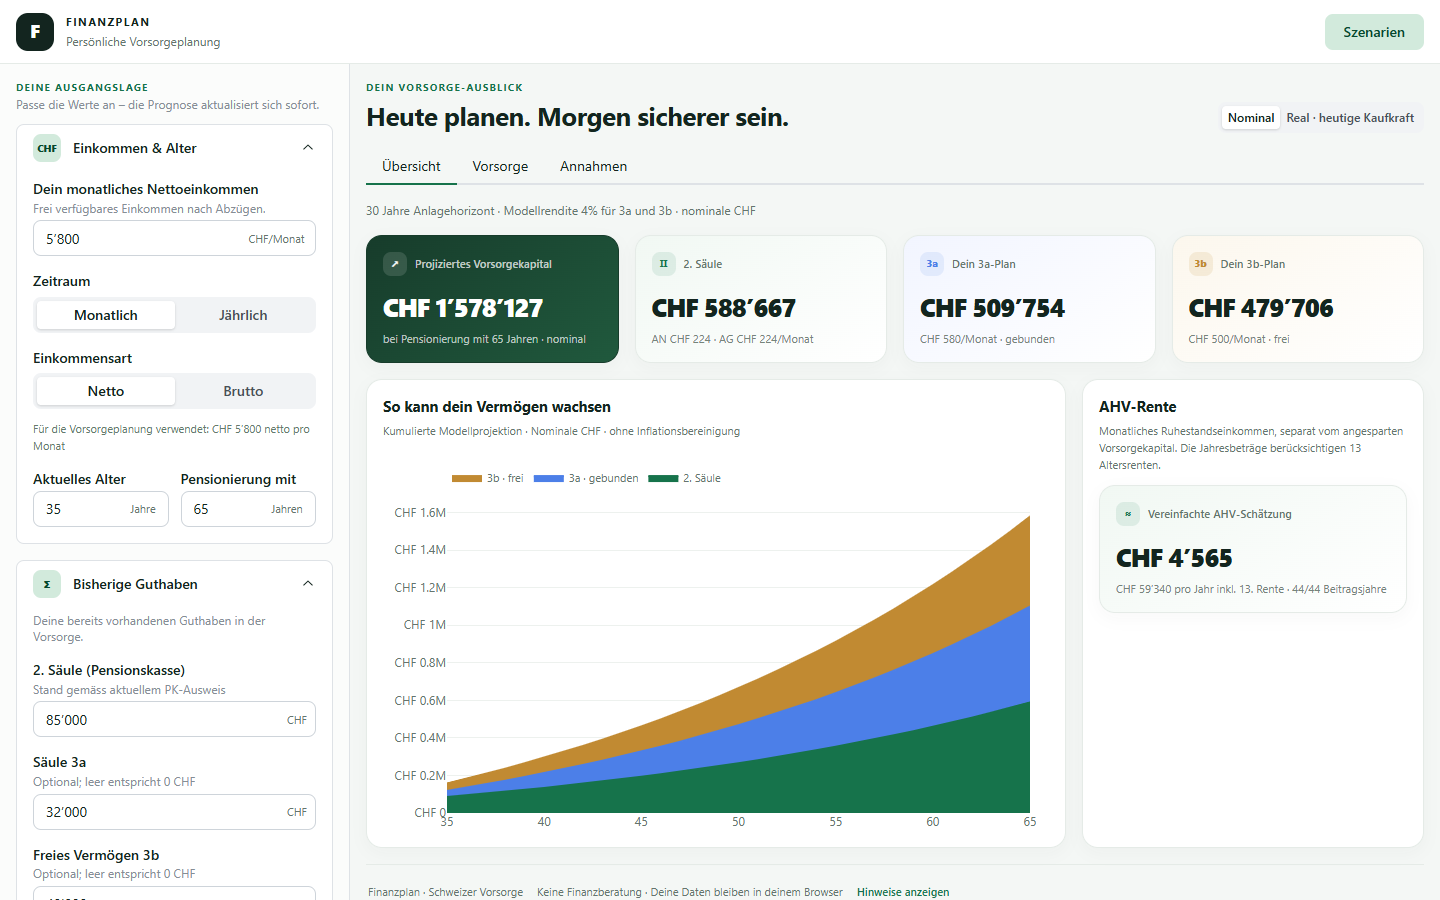
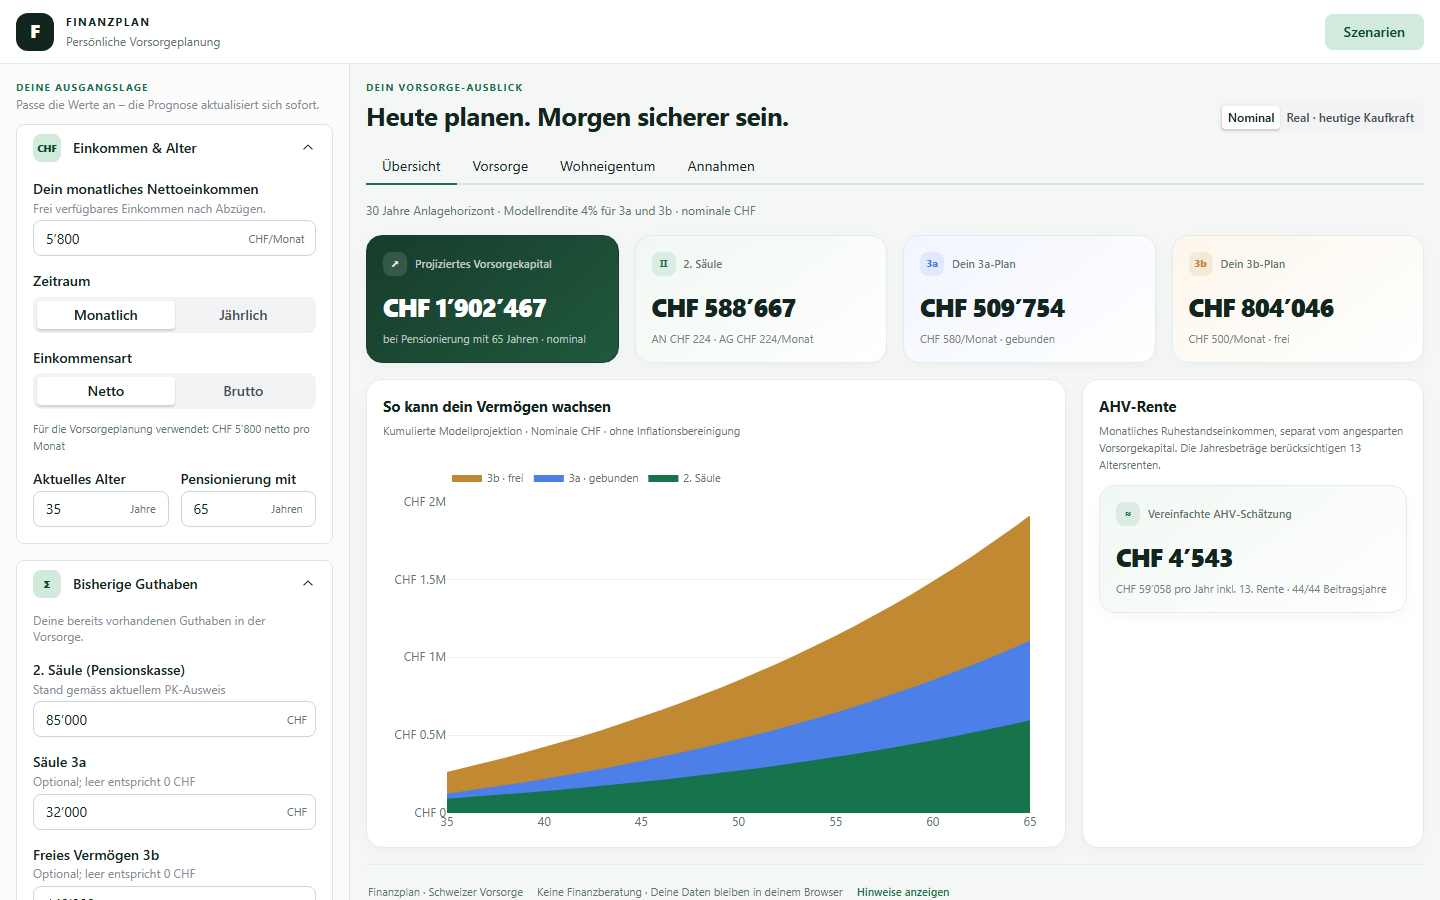
Document home ownership in the guide and the README (#28)
ANLEITUNG.md: new section with the steps, the terms (hard equity, affordability, loan-to-value, WEF, pledging, indirect amortisation) and a worked example computed with the core. README: highlights, a screenshot of the new tab and an updated overview screenshot (sample values only).

diff --git a/docs/ANLEITUNG.md b/docs/ANLEITUNG.md
@@ -2,9 +2,12 @@
 
 Mit dem Finanzplan siehst du, wie sich dein Vorsorgevermögen bis zur Pensionierung entwickeln
 könnte: 2. Säule (Pensionskasse), Säule 3a, freies Sparen (3b) und eine grobe AHV-Schätzung.
+Wer ein Eigenheim plant, sieht zusätzlich, ob der Kauf tragbar ist und was er für die Vorsorge
+bedeutet.
 
 > **Keine Beratung.** Alle Werte sind vereinfachte Schätzungen ohne Gewähr. Für verbindliche
-> Zahlen gelten dein Pensionskassenausweis, dein AHV-Auszug und eine Fachperson.
+> Zahlen gelten dein Pensionskassenausweis, dein AHV-Auszug und eine Fachperson. Der Bereich
+> Wohneigentum ist keine Hypothekarberatung: Banken und Pensionskassen entscheiden individuell.
 
 ## Öffnen und anmelden
 
@@ -18,8 +21,9 @@ könnte: 2. Säule (Pensionskasse), Säule 3a, freies Sparen (3b) und eine grobe
 
 - **Links: deine Eingaben**, in Gruppen zum Auf- und Zuklappen. Auf dem **Handy** sind sie hinter
   dem Menü-Symbol **☰** oben links; ein zweiter Tipp darauf blendet sie wieder aus.
-- **Rechts: die Ergebnisse** in drei Laschen: **Übersicht** (Kennzahlen, AHV, Vermögensentwicklung),
-  **Vorsorge** (Vergleich, Zusammensetzung, dein Sparplan) und **Annahmen** (wie gerechnet wird).
+- **Rechts: die Ergebnisse** in vier Laschen: **Übersicht** (Kennzahlen, AHV, Vermögensentwicklung),
+  **Vorsorge** (Vergleich, Zusammensetzung, dein Sparplan), **Wohneigentum** (Tragbarkeit,
+  Vorbezug, Hypothek) und **Annahmen** (wie gerechnet wird, mit Quellen).
 - **Oben rechts: „Szenarien“** zum Speichern und Laden.
 
 ## So gehst du vor
@@ -34,8 +38,71 @@ könnte: 2. Säule (Pensionskasse), Säule 3a, freies Sparen (3b) und eine grobe
    Pensionskassenausweis. Sonst rechnet die App mit einer vereinfachten Schätzung.
 5. **Säule 3a und 3b:** wie viel du sparst, bei 3a als *Sparquote* oder *Fester Betrag*,
    dazu die angenommene Rendite.
-6. Die Ergebnisse rechts aktualisieren sich sofort. Mit *Nominal* bzw. *Real · heutige
+6. **Wohneigentum** (freiwillig): siehe nächster Abschnitt. Ohne geplanten Kauf bleibt alles
+   wie bisher.
+7. Die Ergebnisse rechts aktualisieren sich sofort. Mit *Nominal* bzw. *Real · heutige
    Kaufkraft* über den Laschen wechselst du, ob die Inflation herausgerechnet wird.
+
+## Wohneigentum planen
+
+In der Gruppe **Wohneigentum** links **„Kauf planen“** wählen. Dann erscheinen die Felder, und
+die Lasche **Wohneigentum** rechts zeigt das Ergebnis.
+
+1. **Kaufpreis** und **Kauf mit Alter** (leer = heute).
+2. **Eigenkapital für den Kauf:** Erspartes und Wertschriften, Geld aus der Säule 3a und aus
+   der Pensionskasse. Was du aus 3a und Pensionskasse nimmst, fehlt danach in der Vorsorge.
+3. **Bruttoeinkommen des Haushalts:** leer lassen, dann nimmt die App dein Einkommen von oben.
+4. **Kalkulatorischer Zins:** Banken rechnen die Tragbarkeit meist mit 5 %, nicht mit deinem
+   echten Zins.
+5. **Hypothek in der Prognose:** dein erwarteter Hypothekarzins und ob du **direkt** oder
+   **indirekt über 3a** amortisierst.
+
+Das zeigt die Lasche:
+
+- **Ampel zur Tragbarkeit:** grün = tragbar, orange = knapp, rot = nicht tragbar, mit einer
+  Begründung (z.B. „Es fehlen CHF 18’000 harte Eigenmittel“).
+- **Eigenmittel, Hypothek, monatliche Wohnkosten** und der **maximal finanzierbare Kaufpreis**.
+- **Vorsorge mit und ohne Kauf:** wie viel weniger du bei der Pensionierung in 2. Säule und 3a
+  hast.
+- **Vermögen, Hypothek und Nettovermögen** bis zur Pensionierung, der Vergleich direkt/indirekt
+  und die **Tragbarkeit im Alter**.
+
+### Begriffe
+
+- **Eigenmittel:** dein eigenes Geld für den Kauf. Nötig sind mindestens 20 % des Kaufpreises.
+- **Harte Eigenmittel:** Eigenmittel, die nicht aus der Pensionskasse stammen (Erspartes,
+  Wertschriften, Säule 3a). Mindestens 10 % des Kaufpreises müssen hart sein.
+- **Belehnung:** Anteil des Kaufpreises, den die Bank finanziert, höchstens 80 %. Bis ⅔ ist es
+  die 1. Hypothek, der Rest die 2. Hypothek.
+- **Tragbarkeit:** Die kalkulatorischen Wohnkosten (5 % Zins auf die Hypothek, 1 % des
+  Kaufpreises für Unterhalt, dazu die Amortisation) dürfen höchstens ⅓ des Bruttoeinkommens
+  betragen.
+- **Amortisation:** Die 2. Hypothek musst du in höchstens 15 Jahren und spätestens bis zur
+  Pensionierung zurückzahlen. **Direkt:** Die Schuld sinkt jedes Jahr. **Indirekt:** Du zahlst
+  stattdessen in ein verpfändetes 3a-Konto ein; die Schuld bleibt bis zum Schluss gleich hoch,
+  das 3a-Geld wächst mit Rendite.
+- **WEF (Wohneigentumsförderung):** Du darfst Geld aus der Pensionskasse und der Säule 3a für
+  selbst bewohntes Eigentum beziehen. Aus der Pensionskasse mindestens CHF 20’000, höchstens
+  alle 5 Jahre, bis 3 Jahre vor der Pensionierung; ab Alter 50 ist der Betrag begrenzt.
+- **Verpfändung:** Statt Geld zu beziehen, dient dein Vorsorgeguthaben der Bank als Sicherheit.
+  Es bleibt in der Vorsorge. Die App rechnet nur den Bezug, nicht die Verpfändung des
+  Pensionskassenguthabens.
+
+### Beispiel
+
+Kaufpreis CHF 800’000, Erspartes CHF 150’000, Säule 3a CHF 30’000, Pensionskasse CHF 40’000,
+Bruttoeinkommen CHF 160’000, Kauf 25 Jahre vor der Pensionierung:
+
+- Kaufnebenkosten (3 %): CHF 24’000, bezahlt aus Erspartem und 3a.
+- Eigenmittel: CHF 196’000 (24.5 %), davon hart CHF 156’000 (19.5 %). Beides reicht.
+- Hypothek: CHF 604’000 (Belehnung 75.5 %), davon 2. Hypothek rund CHF 70’700, also
+  CHF 4’711 Amortisation pro Jahr über 15 Jahre.
+- Wohnkosten: 5 % Zins CHF 30’200 + Unterhalt CHF 8’000 + Amortisation CHF 4’711 =
+  CHF 42’911 pro Jahr, rund CHF 3’576 pro Monat. Das sind 26.8 % des Einkommens: **tragbar**.
+- Mit diesen Mitteln und diesem Einkommen läge der maximale Kaufpreis bei rund CHF 921’600.
+
+Die Regeln, Quellen und der Stand stehen in der Lasche **Annahmen**. Steuern rechnet die App
+nicht; der Eigenmietwert entfällt ab dem 1. Januar 2029.
 
 ## Szenarien vergleichen
 

diff --git a/README.md b/README.md
@@ -8,10 +8,13 @@
 
 A web app that projects how Swiss retirement savings could develop until retirement: the
 occupational pension (2nd pillar/BVG), tax-advantaged pillar 3a, free savings (3b), and a rough
-AHV state-pension estimate. It is deployed for a small group of friends: each one uses it in
+AHV state-pension estimate. Since v1.1 it also checks whether a planned home purchase is
+affordable and what it does to the retirement savings. It is deployed for a small group of friends: each one uses it in
 their own browser, and **no personal financial data is ever stored on the server**.
 
 ![Dashboard: inputs on the left, projected retirement capital, AHV estimate and growth chart in tabs on the right](docs/images/dashboard.png)
+
+![Home ownership tab: traffic light for affordability, equity, mortgage, monthly housing costs and the maximum affordable price](docs/images/wohneigentum.png)
 
 ### Highlights
 
@@ -22,11 +25,18 @@ their own browser, and **no personal financial data is ever stored on the server
 - **Secure deployment:** Dockerized (multi-stage build, non-root user, read-only filesystem) and
   served by gunicorn on Render's free tier. The shared-password login (HTTP Basic Auth,
   constant-time comparison) **fails closed**: the container refuses to start without a password.
-- **CI/CD:** GitHub Actions runs linting and 170+ tests on Linux and Windows, Playwright
+- **CI/CD:** GitHub Actions runs linting, a format check and 440+ tests (100 % line and branch
+  coverage) on Linux and Windows, Playwright
   browser tests and a Docker build with smoke tests on every pull request. Render deploys only
   commits whose checks passed.
 - **Domain logic:** Swiss salary deductions with 2026 rates (AHV/IV/EO, ALV with its insured-salary
   cap), BVG estimate, 3a limits, compound-interest projections in nominal or real terms.
+- **Home ownership (v1.1):** affordability and equity check following the Swiss banking rules
+  (20 % equity, 10 % of it not from the pension fund, housing costs up to a third of the gross
+  income) with a traffic light and the maximum affordable price; early withdrawals from the
+  2nd pillar and 3a (WEF) and their effect on the retirement capital; direct or indirect
+  amortisation, net wealth over time and affordability in retirement. Every rule is a constant
+  with its source.
 - **Clean architecture:** `core/` (pure domain logic) → `storage/` → `dashboard/` (UI);
   dependencies only point inwards.
 
@@ -35,8 +45,9 @@ Render · GitHub Actions ·
 pytest · Playwright · uv · ruff
 
 **Workflow:** Every change went through an issue, a feature branch and a reviewed pull request
-with green CI ([milestone v1.0](https://github.com/NickHostettler/my-finance-planner/milestone/1),
-[release v1.0.0](https://github.com/NickHostettler/my-finance-planner/releases/tag/v1.0.0)).
+with green CI (milestones [v1.0](https://github.com/NickHostettler/my-finance-planner/milestone/1)
+and [v1.1](https://github.com/NickHostettler/my-finance-planner/milestone/2),
+[releases](https://github.com/NickHostettler/my-finance-planner/releases)).
 Developed with the help of an AI coding assistant (Claude Code), which is noted in the commit
 messages.
 
@@ -57,6 +68,7 @@ Ein Python-Paket für private Finanzplanung nach dem Schweizer Rentensystem (1.,
 - **2. Säule**: Vereinfachtes BVG-Schätzmodell (keine offizielle Mindestberechnung) oder eigene monatliche Arbeitnehmer-/Arbeitgeberbeiträge und PK-Verzinsung
 - **Startguthaben**: Bereits vorhandene Guthaben in der 2. Säule, 3a und 3b fliessen in die Projektion ein
 - **Transparente Modellannahmen**: Renditen, nominale Werte ohne Inflationsbereinigung, Vereinfachungen der BVG-Schätzung und nicht berücksichtigte Faktoren werden bei der Prognose ausgewiesen
+- **Wohneigentum**: Tragbarkeit und Eigenmittel mit Ampel, maximaler Kaufpreis, Vorbezug aus 2. Säule und 3a (WEF), direkte oder indirekte Amortisation, Nettovermögen und Tragbarkeit im Alter
 - **Nominale und reale Prognose**: Umschaltbare Anzeige in zukünftigen CHF oder kaufkraftbereinigten heutigen CHF unter Verwendung der konfigurierten jährlichen Inflation
 - **AHV-Rente**: Unverbindliche Schätzung anhand des durchschnittlichen Jahreseinkommens und der Beitragsjahre als separates Ruhestandseinkommen; 13 Jahreszahlungen sind berücksichtigt, die AHV wird nicht zum Vorsorgekapital addiert
 - **Szenarien im eigenen Browser**: Dashboard-Eingaben lassen sich benannt speichern, laden und löschen; ein erneut gespeicherter Name aktualisiert das bestehende Szenario. Die Daten bleiben im Browser des Nutzers, der Server speichert nichts
